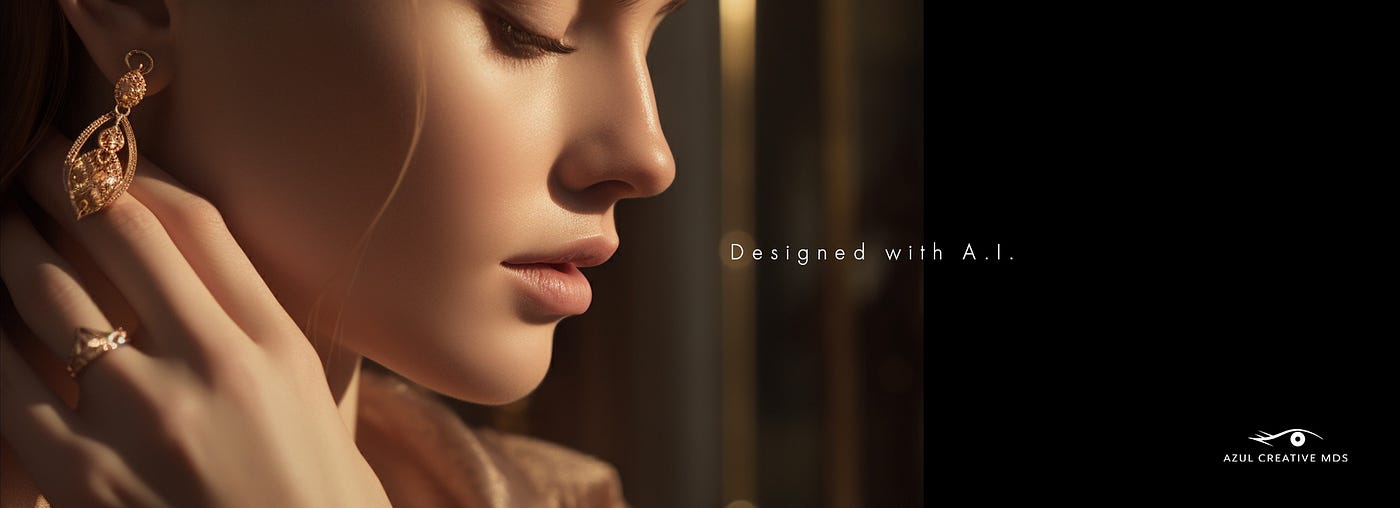
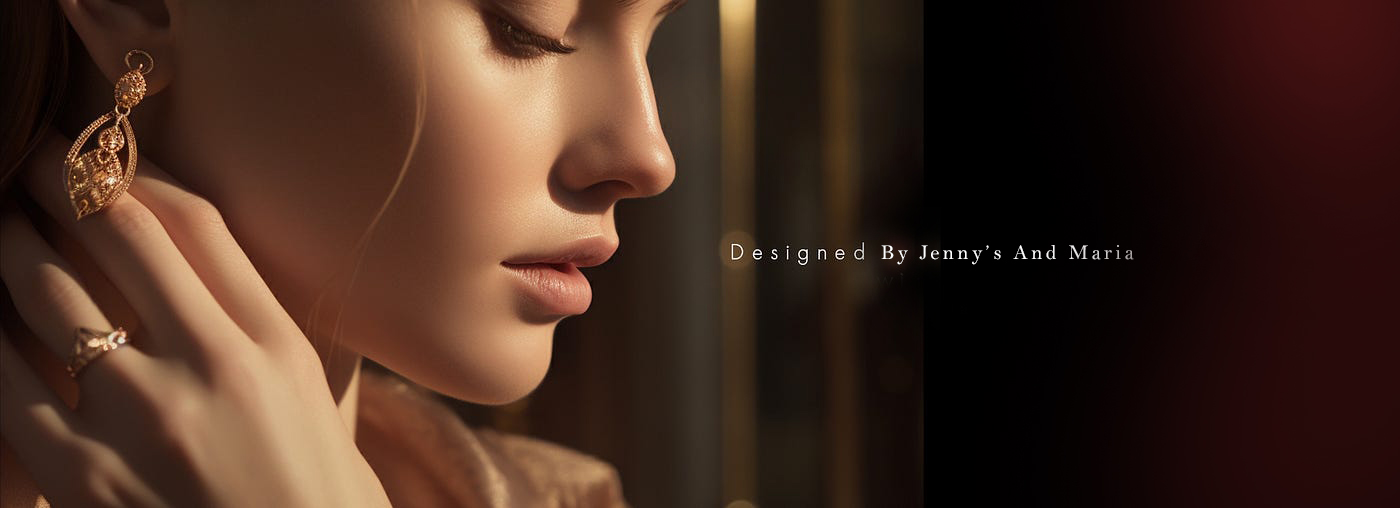
updated

Changed region(s): [[0.7986, 0.0, 1.0, 1.0], [0.6143, 0.4724, 0.7986, 0.5315]]

diff --git a/Assets/style.css b/Assets/style.css
@@ -36,7 +36,7 @@
 
  .hp-hero {
    position: relative;
-   height: 60vh;
+   height: 70vh;
    background: var(--hero-bg) no-repeat center center/cover;
    display: flex;
    align-items: center;

diff --git a/index.php b/index.php
@@ -5,7 +5,7 @@ include("header.php");
 
 
 
-<section class="hp-hero" style="--hero-bg: url('./Images/banner.jpg');"></section>
+<section class="hp-hero" style="--hero-bg: url('./Images/compare2.jpg');"></section>
 
 
 <section class="hp-services">
